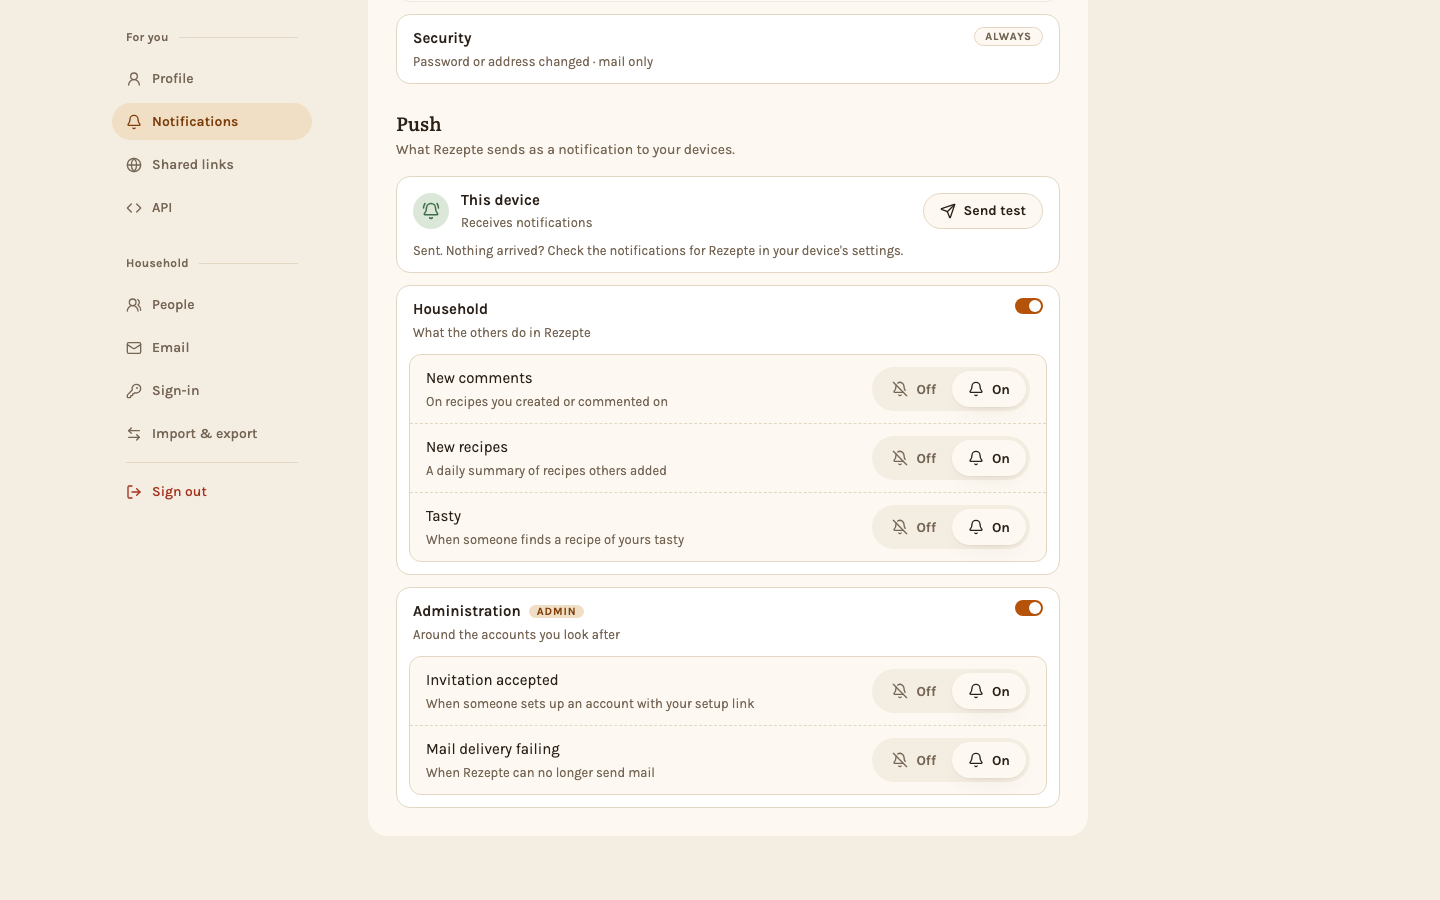
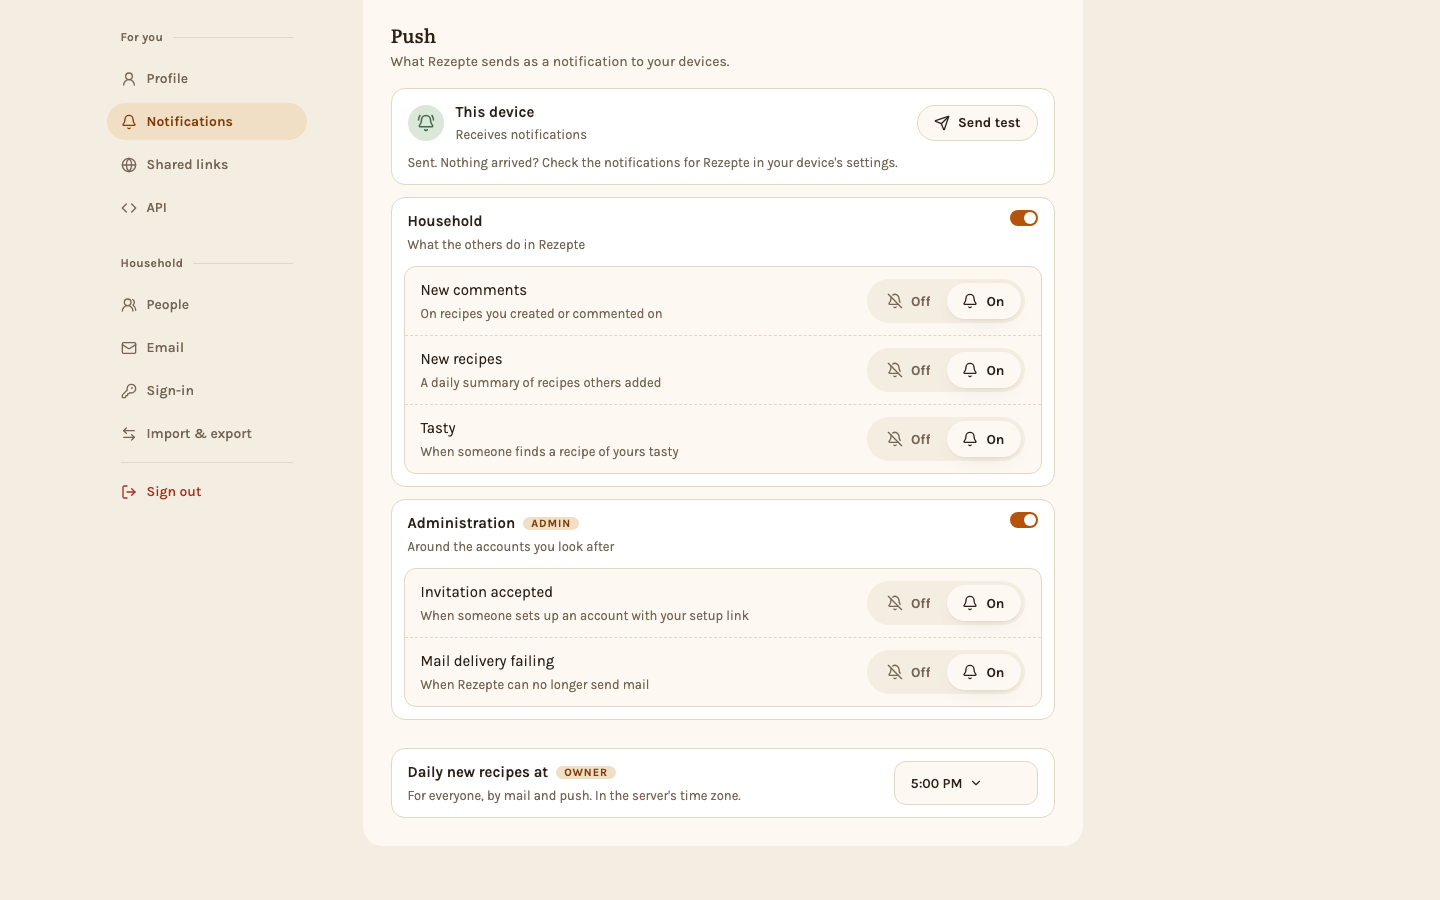
test(docs): stub a push subscription the page can renew

diff --git a/docs/user/screenshots/settings.spec.ts b/docs/user/screenshots/settings.spec.ts
@@ -327,11 +327,17 @@ test('notifications', async ({ page }, testInfo) => {
 test('notifications-push', async ({ page }, testInfo) => {
   await page.addInitScript(() => {
     Object.defineProperty(Notification, 'permission', { get: () => 'granted' });
-    PushManager.prototype.getSubscription = async () =>
-      ({
-        endpoint: 'https://fcm.googleapis.com/fcm/send/docs',
-        toJSON: () => ({ keys: { p256dh: 'p', auth: 'a' } }),
-      }) as unknown as PushSubscription;
+    // No push service in a headless browser: a stand-in subscription. Its
+    // key never matches the instance's, so the page renews it through
+    // unsubscribe and subscribe, as it would one made under another key.
+    const sub = {
+      endpoint: 'https://fcm.googleapis.com/fcm/send/docs',
+      options: { applicationServerKey: null },
+      unsubscribe: async () => true,
+      toJSON: () => ({ keys: { p256dh: 'p', auth: 'a' } }),
+    } as unknown as PushSubscription;
+    PushManager.prototype.getSubscription = async () => sub;
+    PushManager.prototype.subscribe = async () => sub;
   });
   await page.route('**/api/v1/push/subscription', (route) => route.fulfill({ status: 204 }));
   await page.route('**/api/v1/push/test', (route) => route.fulfill({ status: 204 }));
